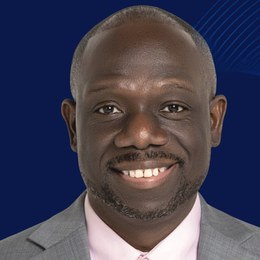
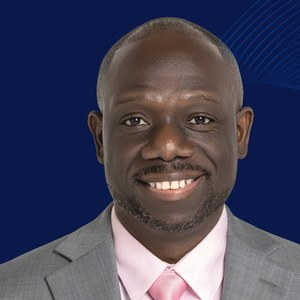
feat(email): add FSA signature footprint + widen headshot framing
Follow-up to the signature elevation (PR #235), addressing FSA feedback.

- Adds the FSA's standard email FOOTPRINT to the campaign signature: practice
  tagline, an Offering list (Auto · Home · Life · Business · asterisked securities
  products), the required FINRA/SIPC securities disclosure for Farmers Financial
  Solutions, and a confidentiality line. Sourced once from SIGNATURE_FOOTPRINT
  (site.ts) → EMAIL_SIGNATURE (email/brand.ts), rendered by signatureFootprintHtml()
  at the single send choke-point. Green-zone identity copy — no product/securities
  call-to-action (§4.2); §4.1 firewall unaffected (identity copy, not securities data).

- Drops the redundant per-campaign trailing educational disclaimer from the body
  render: the standard footprint (securities + confidentiality) plus the CAN-SPAM
  footer (the required "educational / not a product recommendation or suitability
  determination" line + mailing address + unsubscribe) now carry every required
  disclosure, so the wrap no longer duplicates it — one standardized closing.

- Widens the headshot crop so it is no longer tightly zoomed on the face
  (head-and-shoulders framing).

Extends email-marketing-wrap tests (18 total) and DESIGN.md §31.2. type-check,
lint, build, and all 131 unit test files pass.

Claude-Session: https://claude.ai/code/session_01VVGp7GhXCPVwmsm8RtNps9

diff --git a/src/lib/notifications/email-shell.ts b/src/lib/notifications/email-shell.ts
@@ -311,11 +311,31 @@ function sigActionLink(label: string, href: string): string {
 }
 
 /**
+ * The FSA's standard signature FOOTPRINT (DESIGN.md §31.2): practice tagline, offerings list,
+ * and required disclosures (FINRA/SIPC securities disclosure + confidentiality). Static, trusted
+ * constants from EMAIL_SIGNATURE, so — unlike personalized body text — they ARE escaped here
+ * (raw "&" in "FINRA & SIPC" must render as &amp;). Green-zone identity copy, never a
+ * recommendation (§4.2); the CAN-SPAM footer with the mailing address + unsubscribe still follows.
+ */
+function signatureFootprintHtml(): string {
+  const f = SIG.footprint
+  return `<table role="presentation" width="100%" cellpadding="0" cellspacing="0" style="margin:16px 0 0;border-top:1px solid ${C.border};">
+      <tr><td style="padding-top:14px;">
+        <p style="margin:0 0 10px;color:${C.brand};font-size:${T.small}px;line-height:1.6;font-style:italic;">${esc(f.tagline)}</p>
+        <p style="margin:0 0 6px;color:${C.body};font-size:${T.fine}px;line-height:1.6;"><strong style="color:${C.ink};">Offering:</strong> ${esc(f.offering)}</p>
+        <p style="margin:0 0 10px;color:${C.muted};font-size:${T.micro}px;line-height:1.6;">${esc(f.securities)}</p>
+        <p style="margin:0;color:${C.faint};font-size:${T.micro}px;line-height:1.6;">${esc(f.confidentiality)}</p>
+      </td></tr>
+    </table>`
+}
+
+/**
  * The rich, branded FSA email signature block (DESIGN.md §31.2): a headshot letterhead, the
  * agent name + designation, descriptive title + financial firm, direct/office/email contact
- * rows, and two green-zone action links (booking + free quote). One canonical identity from
- * EMAIL_SIGNATURE (src/lib/email/brand.ts) so every campaign email signs off identically. The
- * `closer` (e.g. "Warm regards,") is the message's own approved sign-off word, kept verbatim.
+ * rows, two green-zone action links (booking + free quote), and the standard footprint
+ * (tagline + offerings + disclosures). One canonical identity from EMAIL_SIGNATURE
+ * (src/lib/email/brand.ts) so every campaign email signs off identically. The `closer`
+ * (e.g. "Warm regards,") is the message's own approved sign-off word, kept verbatim.
  */
 function signatureBlockHtml(closer: string): string {
   return `<table role="presentation" width="100%" cellpadding="0" cellspacing="0" style="margin:24px 0 0;border-top:1px solid ${C.border};">
@@ -333,12 +353,8 @@ function signatureBlockHtml(closer: string): string {
         ${sigActionLink('Schedule a Meeting with Me', SIG.bookingUrl)}
         ${sigActionLink('Get a Free Quote', SIG.quoteUrl)}
       </td></tr>
-    </table>`
-}
-
-/** Trailing compliance fine-print (educational disclaimer inside the body). */
-function mktFine(html: string): string {
-  return `<p style="margin:16px 0 0;color:${C.muted};font-size:${T.fine}px;line-height:1.6;">${linkify(html).replace(/\n/g, '<br>')}</p>`
+    </table>
+    ${signatureFootprintHtml()}`
 }
 
 // ── Block classification ─────────────────────────────────────────────────────
@@ -434,9 +450,12 @@ function renderMarketingBody(body: string): RenderedBody {
       return
     }
 
-    // Trailing educational disclaimer → fine print.
+    // Trailing per-campaign educational disclaimer → superseded by the standard signature
+    // footprint (securities + confidentiality) and the CAN-SPAM footer (the required
+    // "educational / not a product recommendation or suitability determination" line + mailing
+    // address + unsubscribe). Detected so it is NOT rendered as a body paragraph, then dropped to
+    // avoid a duplicate disclaimer block — the core disclosures are retained by those two surfaces.
     if (DISCLAIMER_RE.test(block)) {
-      parts.push(mktFine(block.replace(/\n/g, ' ')))
       return
     }
 

diff --git a/src/lib/site.ts b/src/lib/site.ts
@@ -129,6 +129,25 @@ export const QUOTE_URL = 'https://agents.farmers.com/tx/plano/markist-athelus/'
 export const HEADSHOT_PATH = '/images/markist-headshot.jpg'
 
 /**
+ * The FSA's standard email-signature FOOTPRINT — the practice tagline, the offerings list, and
+ * the required disclosures used on the agent's production emails. Green-zone marketing identity
+ * (§4.2): a general capabilities list + a no-obligation review invitation, never an individualized
+ * product/securities recommendation. The securities line is the required FINRA/SIPC disclosure for
+ * the asterisked securities offerings (Farmers Financial Solutions, LLC) — a disclosure, not a
+ * solicitation, and consistent with DISCLOSURES.securities (§4.1 firewall unaffected: identity
+ * copy, not securities account/transaction data).
+ */
+export const SIGNATURE_FOOTPRINT = {
+  tagline:
+    'We help families protect what matters most with life insurance, eliminate debt faster, and build lasting financial independence every day. Discover how we can help your family with a no-cost, no-obligation review.',
+  offering:
+    'Auto • Home • Life Insurance • Business • Mutual Funds* • Investment & Retirement Planning* • Annuities* • IRAs* • 401(k)s* • 529 College Savings Plans*',
+  securities: '*Securities offered through Farmers Financial Solutions, LLC, Member FINRA & SIPC',
+  confidentiality:
+    'This message is intended for the recipient named above. If you received it in error, please delete it.',
+} as const
+
+/**
  * The advisor + agency identity merge tokens shared by every outbound message (§13/§17).
  * These are single-FSA constants, so the send path (sendThroughGate) injects them as
  * CALLER-OVERRIDABLE defaults — a campaign or booking send inherits correct advisor identity,

diff --git a/src/lib/email/brand.ts b/src/lib/email/brand.ts
@@ -19,7 +19,7 @@
 // the two contexts email rendering unavoidably requires.
 //
 // Never hardcode an email color/spacing elsewhere — resolve it through EMAIL here.
-import { BUSINESS, CONTACT, LICENSING, QUOTE_URL, HEADSHOT_PATH } from '@/lib/site'
+import { BUSINESS, CONTACT, LICENSING, QUOTE_URL, HEADSHOT_PATH, SIGNATURE_FOOTPRINT } from '@/lib/site'
 
 /**
  * Canonical marketing origin for absolutely-referenced email assets (the logo).
@@ -144,4 +144,6 @@ export const EMAIL_SIGNATURE = {
   bookingUrl: `${EMAIL_ORIGIN}/schedule`,
   /** Public "Get a Free Quote" link (official Farmers agent page). */
   quoteUrl: QUOTE_URL,
+  /** Standard footprint (tagline + offerings + required disclosures) — see site.ts. */
+  footprint: SIGNATURE_FOOTPRINT,
 } as const

diff --git a/DESIGN.md b/DESIGN.md
@@ -745,13 +745,25 @@ FSOS booking, ADR-027) and "Get a Free Quote →" (the FSA's official Farmers ag
 message's **own approved closer word** (`Warm regards,` / `Sincerely,` / …) is kept verbatim above
 it; the block replaces only the plain identity line.
 
+Below the contact rows the signature closes with the FSA's standard **footprint**: the practice
+**tagline**, an **Offering** list (Auto · Home · Life · Business · and the asterisked securities
+products), the required **FINRA/SIPC securities disclosure** for Farmers Financial Solutions, and a
+**confidentiality** line. Because the footprint plus the CAN-SPAM footer (the "educational /
+not a product recommendation or suitability determination" line + mailing address + unsubscribe)
+now carry every required disclosure, the runtime wrap **drops the per-campaign trailing
+educational disclaimer** from the body render rather than duplicating it — one standardized
+closing, not two.
+
 One identity, one design: the signature data is **`EMAIL_SIGNATURE`** in `src/lib/email/brand.ts`
 (sourced from `src/lib/site.ts` — `BUSINESS.credential/titleLong/financialFirm`,
-`CONTACT.cellDisplay`, `QUOTE_URL`, `HEADSHOT_PATH`), rendered by `signatureBlockHtml()` in the
-runtime campaign wrap (`email-shell.ts`). Absolute asset/link URLs on the stable marketing origin so
-the headshot and links resolve in a delivered message (ADR-025 immutability). Green-zone only — the
-action links are an invitation to book or request a quote, never a product/securities
-call-to-action (§4.2), and are covered by the recommendation-language guard.
+`CONTACT.cellDisplay`, `QUOTE_URL`, `HEADSHOT_PATH`, `SIGNATURE_FOOTPRINT`), rendered by
+`signatureBlockHtml()` in the runtime campaign wrap (`email-shell.ts`). Absolute asset/link URLs on
+the stable marketing origin so the headshot and links resolve in a delivered message (ADR-025
+immutability). Green-zone only — the tagline, offerings, and action links are identity copy and an
+invitation to book or request a quote, never a product/securities call-to-action (§4.2), and are
+covered by the recommendation-language guard. The securities line is a required disclosure, not a
+solicitation, and the §4.1 firewall is unaffected (identity copy, not securities account/transaction
+data).
 
 Tokens (styling `--shell`/`--muted-foreground` equivalents, inline for email-client safety) resolve
 through `src/lib/email/brand.ts`. Do **not** bake the SMS TRAIGA opt-out ("Reply STOP") into an email
